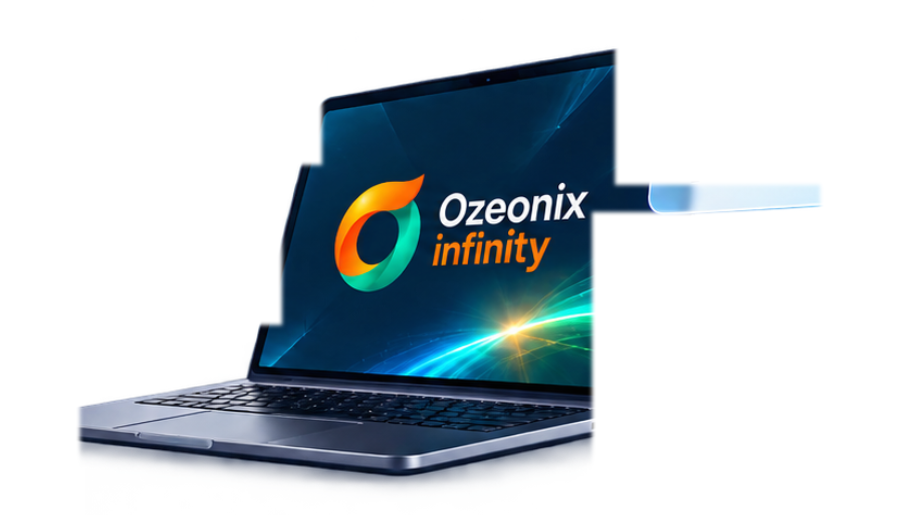
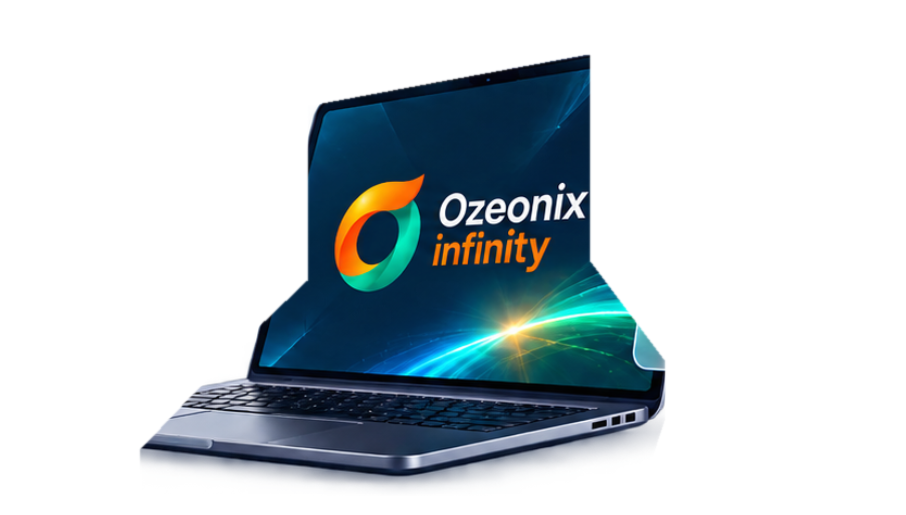
fix: resolve laptop screen bezel cut and prevent card title truncation

Changed region(s): [[0.5872, 0.0932, 0.9272, 0.901], [0.2781, 0.1243, 0.5872, 0.6524], [0.0618, 0.7456, 0.2163, 0.901]]

diff --git a/src/styles.css b/src/styles.css
@@ -4825,37 +4825,45 @@ a.oz-btn,
 
 /* Card Slot Positions */
 .oz-hero-card--top-left {
-  top: 4%;
-  left: 2%;
-  width: clamp(195px, 32%, 240px);
+  top: 6%;
+  left: -2%;
+  width: auto;
+  min-width: 220px;
+  max-width: 280px;
 }
 .oz-hero-card--bottom-left {
   top: 48%;
-  left: 0%;
-  width: clamp(195px, 32%, 240px);
+  left: -4%;
+  width: auto;
+  min-width: 220px;
+  max-width: 280px;
 }
 .oz-hero-card--top-right {
   top: 6%;
-  right: 2%;
-  width: clamp(205px, 33%, 255px);
+  right: -2%;
+  width: auto;
+  min-width: 225px;
+  max-width: 285px;
 }
 .oz-hero-card--bottom-right {
-  top: 50%;
-  right: 1%;
-  width: clamp(205px, 33%, 255px);
+  top: 48%;
+  right: -2%;
+  width: auto;
+  min-width: 225px;
+  max-width: 285px;
 }
 
 /* Glass Card Appearance */
 .oz-hero-illus__card {
   display: flex;
   align-items: center;
-  gap: 0.65rem;
-  padding: 0.65rem 0.85rem;
-  background: rgba(8, 24, 45, 0.78);
+  gap: 0.55rem;
+  padding: 0.55rem 0.75rem;
+  background: rgba(8, 24, 45, 0.82);
   backdrop-filter: blur(14px);
   -webkit-backdrop-filter: blur(14px);
   border: 1px solid rgba(255, 255, 255, 0.16);
-  border-radius: 14px;
+  border-radius: 12px;
   box-shadow: 0 10px 25px -5px rgba(0, 0, 0, 0.45), 0 0 16px -4px var(--card-glow, rgba(234, 88, 12, 0.2));
   transform-style: preserve-3d;
   transition: transform 0.35s cubic-bezier(0.2, 0.8, 0.2, 1),
@@ -4870,7 +4878,7 @@ a.oz-btn,
   transform: scale(1.05) translateZ(40px) !important;
   border-color: var(--card-border, rgba(234, 88, 12, 0.7)) !important;
   box-shadow: 0 16px 32px -4px rgba(0, 0, 0, 0.55), 0 0 24px -2px var(--card-glow, rgba(234, 88, 12, 0.45)) !important;
-  background: rgba(12, 33, 62, 0.9) !important;
+  background: rgba(12, 33, 62, 0.92) !important;
 }
 
 /* Floating Animations for the 4 Cards */
@@ -4950,13 +4958,11 @@ a.oz-btn,
   gap: 0.4rem;
 }
 .oz-hero-illus__card-title {
-  font-size: clamp(0.76rem, 1.05vw, 0.85rem);
+  font-size: clamp(0.74rem, 0.95vw, 0.83rem);
   font-weight: 700;
   color: #ffffff;
   letter-spacing: -0.01em;
   white-space: nowrap;
-  overflow: hidden;
-  text-overflow: ellipsis;
 }
 .oz-hero-illus__card-dot {
   flex-shrink: 0;
@@ -4984,11 +4990,9 @@ a.oz-btn,
   gap: 0.35rem;
 }
 .oz-hero-illus__card-subtitle {
-  font-size: clamp(0.62rem, 0.85vw, 0.7rem);
+  font-size: clamp(0.6rem, 0.8vw, 0.68rem);
   color: #94a3b8;
   white-space: nowrap;
-  overflow: hidden;
-  text-overflow: ellipsis;
 }
 .oz-hero-illus__card-tag {
   font-size: 0.58rem;

diff --git a/src/components/HeroIllustration.jsx b/src/components/HeroIllustration.jsx
@@ -398,7 +398,7 @@ export default function HeroIllustration() {
                     color: card.color,
                   }}
                 >
-                  <IconComponent size={18} strokeWidth={2.2} />
+                  <IconComponent size={16} strokeWidth={2.2} />
                 </div>
 
                 {/* Card Information */}
@@ -432,3 +432,4 @@ export default function HeroIllustration() {
     </div>
   );
 }
+
